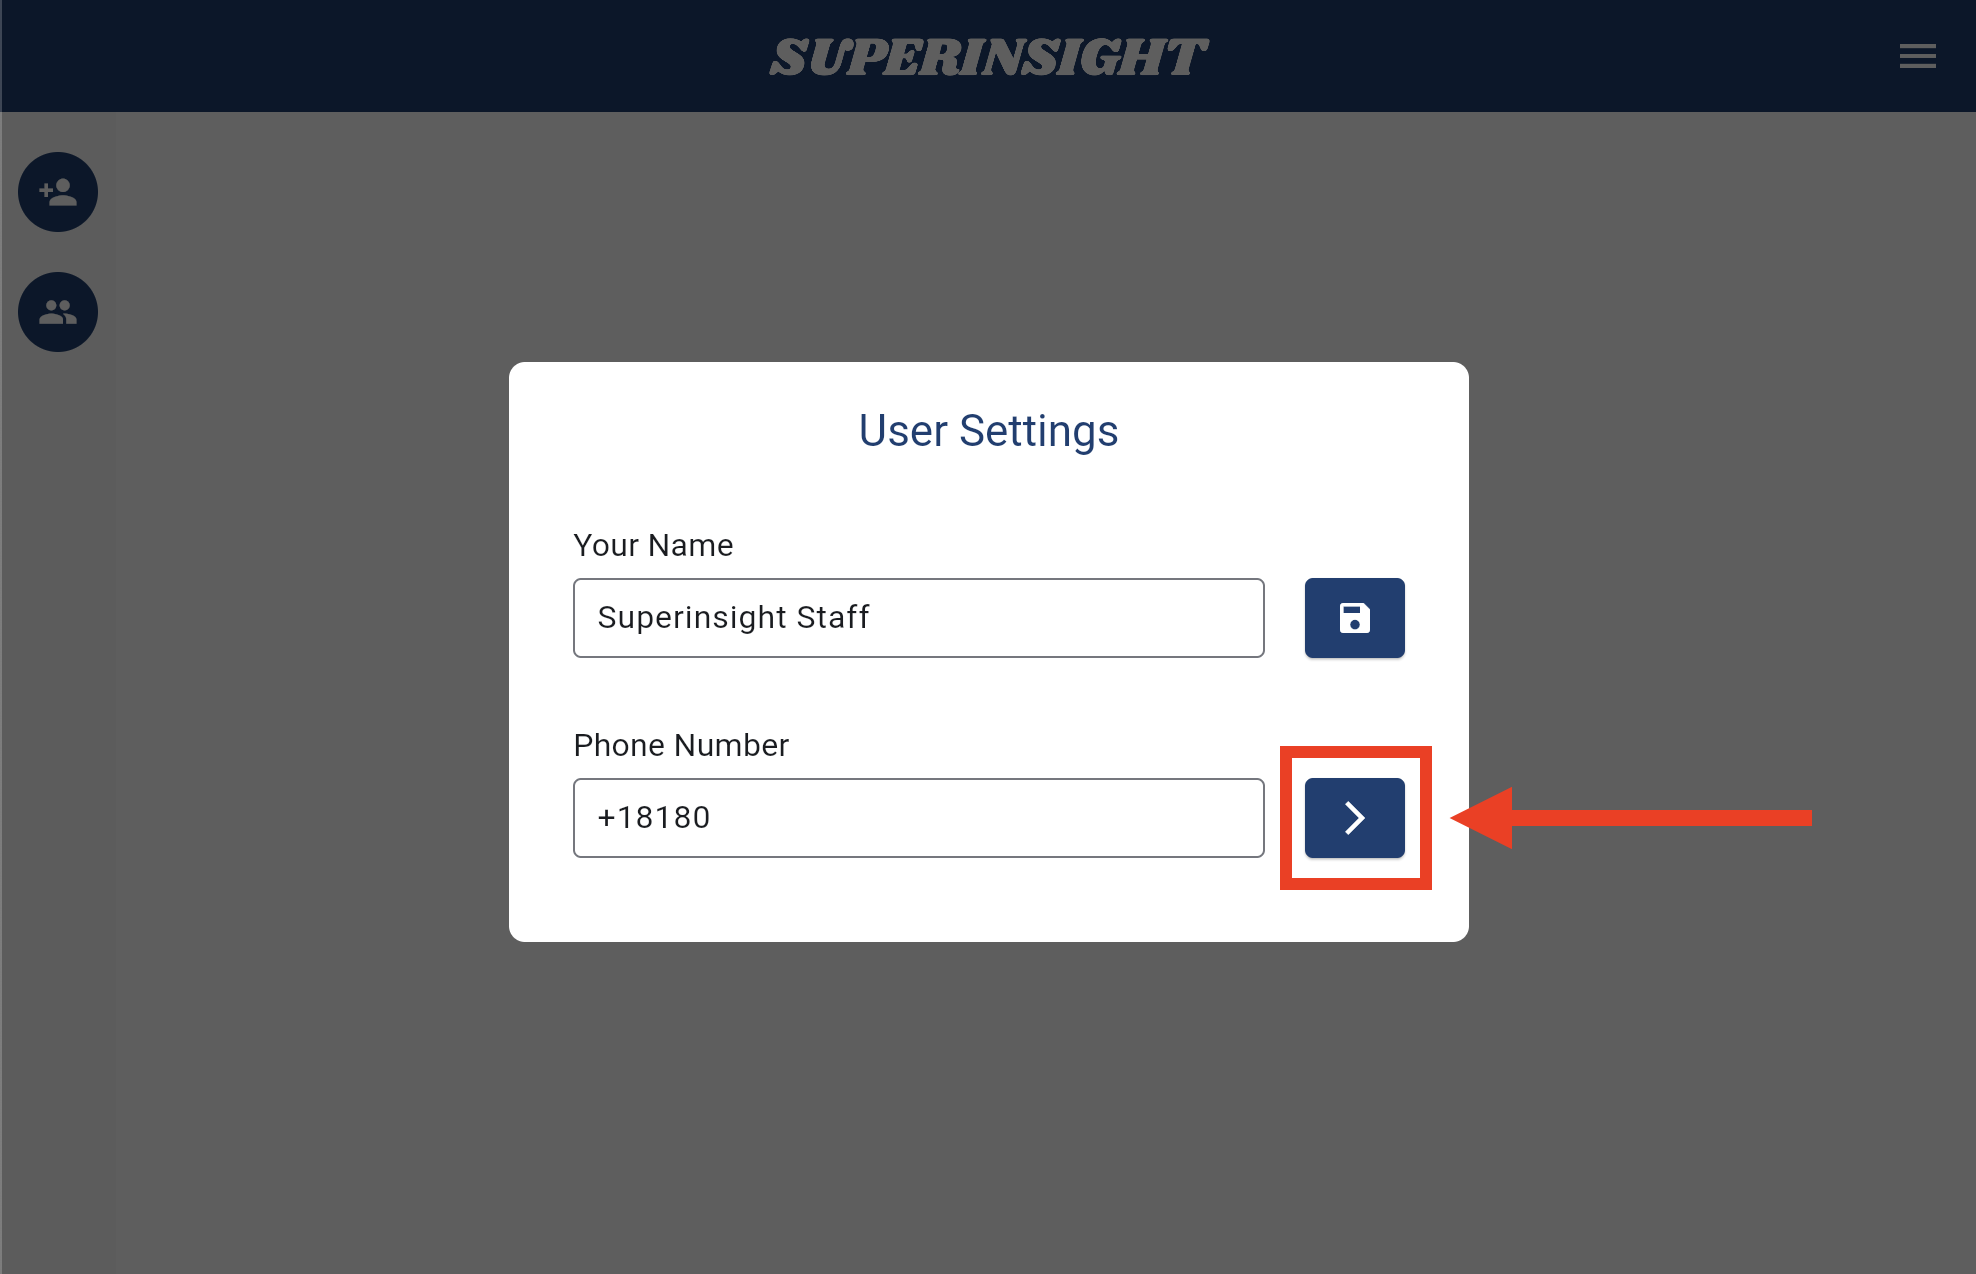
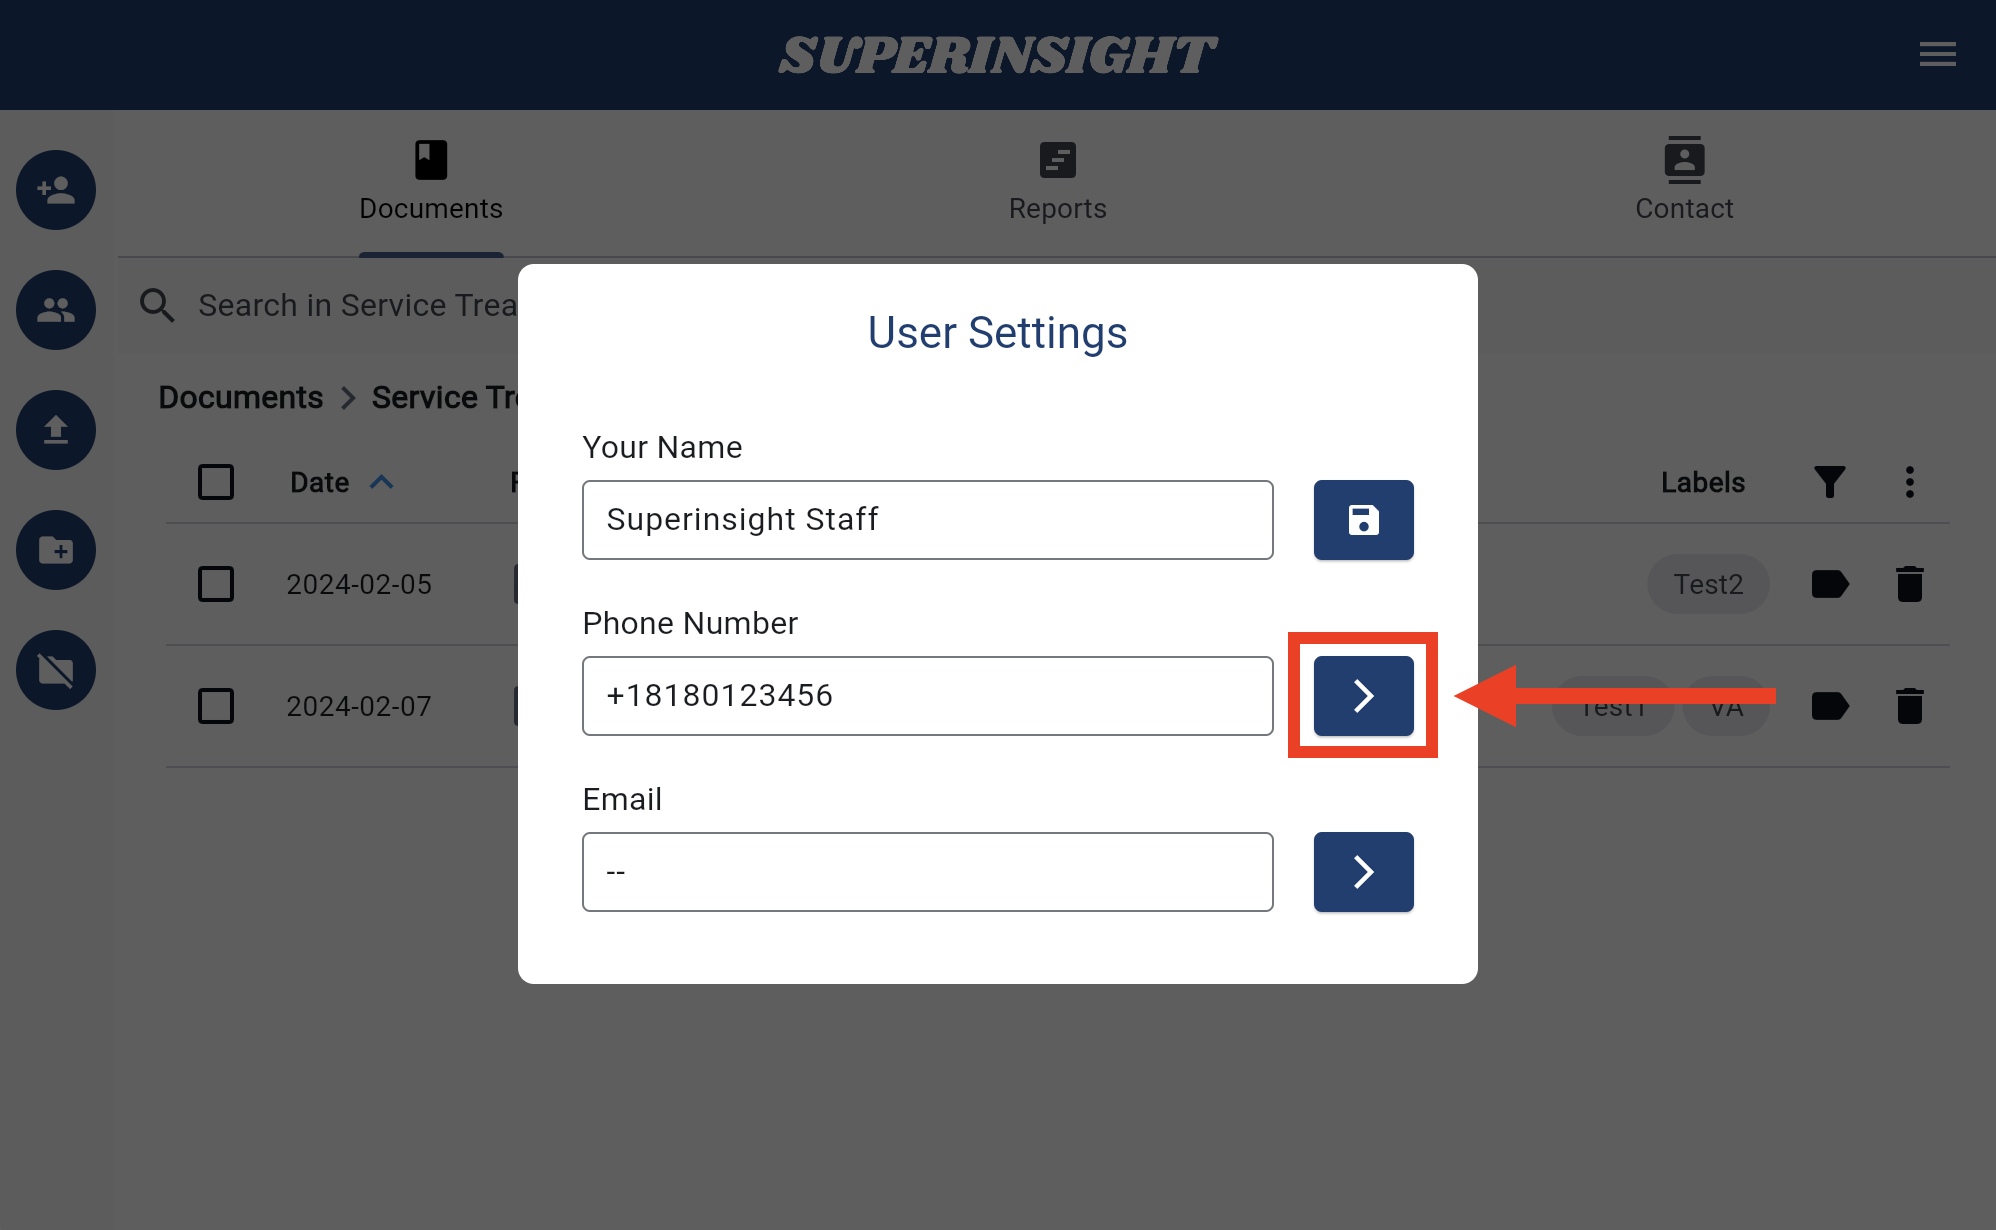
feature-october-updates-24-v3

diff --git a/guide/menu/index.html b/guide/menu/index.html
@@ -460,9 +460,18 @@
     <ul class="md-nav__list" data-md-component="toc" data-md-scrollfix>
       
         <li class="md-nav__item">
-  <a href="#change-mobile-number" class="md-nav__link">
+  <a href="#1-change-mobile-number" class="md-nav__link">
     <span class="md-ellipsis">
-      Change Mobile Number
+      1. Change Mobile Number
+    </span>
+  </a>
+  
+</li>
+      
+        <li class="md-nav__item">
+  <a href="#2-change-email" class="md-nav__link">
+    <span class="md-ellipsis">
+      2. Change Email
     </span>
   </a>
   
@@ -611,9 +620,18 @@
     <ul class="md-nav__list" data-md-component="toc" data-md-scrollfix>
       
         <li class="md-nav__item">
-  <a href="#change-mobile-number" class="md-nav__link">
+  <a href="#1-change-mobile-number" class="md-nav__link">
     <span class="md-ellipsis">
-      Change Mobile Number
+      1. Change Mobile Number
+    </span>
+  </a>
+  
+</li>
+      
+        <li class="md-nav__item">
+  <a href="#2-change-email" class="md-nav__link">
+    <span class="md-ellipsis">
+      2. Change Email
     </span>
   </a>
   
@@ -646,7 +664,7 @@
 </div>
 </div>
 </div>
-<h2 id="change-mobile-number">Change Mobile Number</h2>
+<h2 id="1-change-mobile-number">1. Change Mobile Number</h2>
 <p>In some cases, you might need to change your mobile phone number, which may affect your login. For security, Superinsight will verify your new mobile number before actually using it as your new login number. To change your login number, please follow the steps below.</p>
 <div class="tabbed-set tabbed-alternate" data-tabs="2:4"><input checked id="__tabbed_2_1" name="__tabbed_2" type="radio"><input id="__tabbed_2_2" name="__tabbed_2" type="radio"><input id="__tabbed_2_3" name="__tabbed_2" type="radio"><input id="__tabbed_2_4" name="__tabbed_2" type="radio"><div class="tabbed-labels"><label for="__tabbed_2_1">User Settings</label><label for="__tabbed_2_2">Change Number</label><label for="__tabbed_2_3">Enter New Number</label><label for="__tabbed_2_4">Verify New Number</label></div>
 <div class="tabbed-content">
@@ -659,7 +677,7 @@
 <p><img alt="Change Number" src="../../assets/images/tutorial/change-mobile-1.png"></p>
 </div>
 <div class="tabbed-block">
-<p>Enter your new mobile number and click the <strong>Send Code</strong>, and you will receive an SMS code a few seconds later.</p>
+<p>Enter your new mobile number and click the <strong>Send Code</strong>, and you will receive a SMS code a few seconds later.</p>
 <p><img alt="Enter New Number" src="../../assets/images/tutorial/change-mobile-2.png"></p>
 </div>
 <div class="tabbed-block">
@@ -668,7 +686,29 @@
 </div>
 </div>
 </div>
-<p>Your login number will be changed after verified successfully. Please use your new number to login to Superinsight afterward.</p></div>
+<p>Your login number will be changed after verified successfully. Please use your new number to login to Superinsight afterward.</p>
+<h2 id="2-change-email">2. Change Email</h2>
+<p>Email is crucial if you want to collaborate with your colleagues on Superinsight. You can set up your email in the "<strong>Settings</strong>" or change it if you've changed your working email.</p>
+<div class="tabbed-set tabbed-alternate" data-tabs="3:4"><input checked id="__tabbed_3_1" name="__tabbed_3" type="radio"><input id="__tabbed_3_2" name="__tabbed_3" type="radio"><input id="__tabbed_3_3" name="__tabbed_3" type="radio"><input id="__tabbed_3_4" name="__tabbed_3" type="radio"><div class="tabbed-labels"><label for="__tabbed_3_1">User Settings</label><label for="__tabbed_3_2">Change Number</label><label for="__tabbed_3_3">Enter New Email</label><label for="__tabbed_3_4">Verify New Number</label></div>
+<div class="tabbed-content">
+<div class="tabbed-block">
+<p>Click on the <strong>Settings</strong> in the Menu.</p>
+<p><img alt="Setting in Menu" src="../../assets/images/tutorial/account-setting.png"></p>
+</div>
+<div class="tabbed-block">
+<p>Click on the "<strong>&gt;</strong>" button to change your email.</p>
+<p><img alt="Change Number" src="../../assets/images/tutorial/change-email-1.png"></p>
+</div>
+<div class="tabbed-block">
+<p>Enter your new email address and click the <strong>Send Code</strong>, and you will receive a verification PIN code a few seconds later.</p>
+<p><img alt="Enter New Email" src="../../assets/images/tutorial/change-email-2.png"></p>
+</div>
+<div class="tabbed-block">
+<p>Enter the PIN code you received and verify your new email address.</p>
+<p><img alt="Verify New Email" src="../../assets/images/tutorial/change-email-3.png"></p>
+</div>
+</div>
+</div></div>
 
 
 

diff --git a/guide/case-files/index.html b/guide/case-files/index.html
@@ -423,6 +423,15 @@
   
 </li>
       
+        <li class="md-nav__item">
+  <a href="#4-batch-management" class="md-nav__link">
+    <span class="md-ellipsis">
+      4. Batch Management
+    </span>
+  </a>
+  
+</li>
+      
     </ul>
   
 </nav>
@@ -655,6 +664,15 @@
   
 </li>
       
+        <li class="md-nav__item">
+  <a href="#4-batch-management" class="md-nav__link">
+    <span class="md-ellipsis">
+      4. Batch Management
+    </span>
+  </a>
+  
+</li>
+      
     </ul>
   
 </nav>
@@ -675,7 +693,7 @@
 <p>Depending on the purpose, you can upload files that can help your legal claims to the folders you created after you click into the folder level.</p>
 <div class="admonition tip">
 <p class="admonition-title">Tip</p>
-<p>Now we support zip file upload! You can compress multiple files as one zip file and upload them at once. The maximum file size is 1GB.</p>
+<p>Now we support zip file upload! You can compress multiple files as one zip file and upload them at once. The maximum file size is 2GB.</p>
 </div>
 <p>Click the upload button on the left and select the files to upload. Once you submit the files, you can see a little window at the right-down corner of the screen showing your file upload progress.</p>
 <p>After files are uploaded, you will see them in the folder with a red color processing icon on right and the file can not be clicked on. Behind the scenes, Superinsight is processing all the contents in your files. Depending on how large your files are, this process can take a few minutes to hours.</p>
@@ -734,6 +752,41 @@
 </div>
 <div class="tabbed-block">
 <p><img alt="Confirm Delete" src="../../assets/images/tutorial/delete-file-2.png"></p>
+</div>
+</div>
+</div>
+<h2 id="4-batch-management">4. Batch Management</h2>
+<p>If you need to delete multiple files or add labels to multiple files at a time, Superinsight also provides a batch management function.</p>
+<p>Click on the dots icon beside the filter to enable the multi-select, then you can select all the files you need to do further management.</p>
+<div class="tabbed-set tabbed-alternate" data-tabs="5:3"><input checked id="__tabbed_5_1" name="__tabbed_5" type="radio"><input id="__tabbed_5_2" name="__tabbed_5" type="radio"><input id="__tabbed_5_3" name="__tabbed_5" type="radio"><div class="tabbed-labels"><label for="__tabbed_5_1">Advanced Actions</label><label for="__tabbed_5_2">Select Multiple</label><label for="__tabbed_5_3">Batch Manage</label></div>
+<div class="tabbed-content">
+<div class="tabbed-block">
+<p><img alt="Advanced Actions" src="../../assets/images/tutorial/advanced-actions.png"></p>
+</div>
+<div class="tabbed-block">
+<p><img alt="Select Multiple" src="../../assets/images/tutorial/select-multiple.png"></p>
+</div>
+<div class="tabbed-block">
+<p><img alt="Batch Manage" src="../../assets/images/tutorial/batch-manage.png"></p>
+</div>
+</div>
+</div>
+<p><strong>Batch Labeling</strong></p>
+<p>After you select all the files you want to add labels on, click on the dots icon again and choose "<strong>Edit Labels</strong>", then you'll see the batch label management window.</p>
+<p>In the batch label management window, you can add any existing labels to the files you selected as you want. You can also add labels to all the selected files with one drag and drop. And add new labels based on your need of course.</p>
+<div class="tabbed-set tabbed-alternate" data-tabs="6:4"><input checked id="__tabbed_6_1" name="__tabbed_6" type="radio"><input id="__tabbed_6_2" name="__tabbed_6" type="radio"><input id="__tabbed_6_3" name="__tabbed_6" type="radio"><input id="__tabbed_6_4" name="__tabbed_6" type="radio"><div class="tabbed-labels"><label for="__tabbed_6_1">Edit Labels</label><label for="__tabbed_6_2">Drag Labels to Add</label><label for="__tabbed_6_3">Create New Label</label><label for="__tabbed_6_4">Save Changes</label></div>
+<div class="tabbed-content">
+<div class="tabbed-block">
+<p><img alt="Edit Labels" src="../../assets/images/tutorial/edit-labels.png"></p>
+</div>
+<div class="tabbed-block">
+<p><img alt="Add Labels" src="../../assets/images/tutorial/drag-labels.png"></p>
+</div>
+<div class="tabbed-block">
+<p><img alt="New Label" src="../../assets/images/tutorial/new-labels.png"></p>
+</div>
+<div class="tabbed-block">
+<p><img alt="Save Label Editing" src="../../assets/images/tutorial/save-labels.png"></p>
 </div>
 </div>
 </div></div>

diff --git a/guide/release-notes/index.html b/guide/release-notes/index.html
@@ -496,6 +496,15 @@
       <ul class="md-nav__list">
         
           <li class="md-nav__item">
+  <a href="#october-23-2024-released" class="md-nav__link">
+    <span class="md-ellipsis">
+      October 23, 2024 Released
+    </span>
+  </a>
+  
+</li>
+        
+          <li class="md-nav__item">
   <a href="#october-14-2024-released" class="md-nav__link">
     <span class="md-ellipsis">
       October 14, 2024 Released
@@ -715,6 +724,15 @@
       <ul class="md-nav__list">
         
           <li class="md-nav__item">
+  <a href="#october-23-2024-released" class="md-nav__link">
+    <span class="md-ellipsis">
+      October 23, 2024 Released
+    </span>
+  </a>
+  
+</li>
+        
+          <li class="md-nav__item">
   <a href="#october-14-2024-released" class="md-nav__link">
     <span class="md-ellipsis">
       October 14, 2024 Released
@@ -827,6 +845,28 @@
 <div><h1 id="release-notes">Release Notes</h1>
 <h2 id="overview">Overview</h2>
 <p>Release notes provide the list of items on feature changes, known issues, fixes, workarounds, and deprecations for recent software releases.</p>
+<hr>
+<h4 id="october-23-2024-released">October 23, 2024 Released</h4>
+<ul>
+<li>
+<p>Maximum upload file size increase to 2 GB.</p>
+</li>
+<li>
+<p>Batch File Management feature added.</p>
+</li>
+<li>
+<p>Email settings added.</p>
+</li>
+<li>
+<p>Minor bugs fixed.</p>
+</li>
+<li>
+<p>Improved the results of reports.</p>
+</li>
+<li>
+<p>System optimized.</p>
+</li>
+</ul>
 <hr>
 <h4 id="october-14-2024-released">October 14, 2024 Released</h4>
 <ul>
